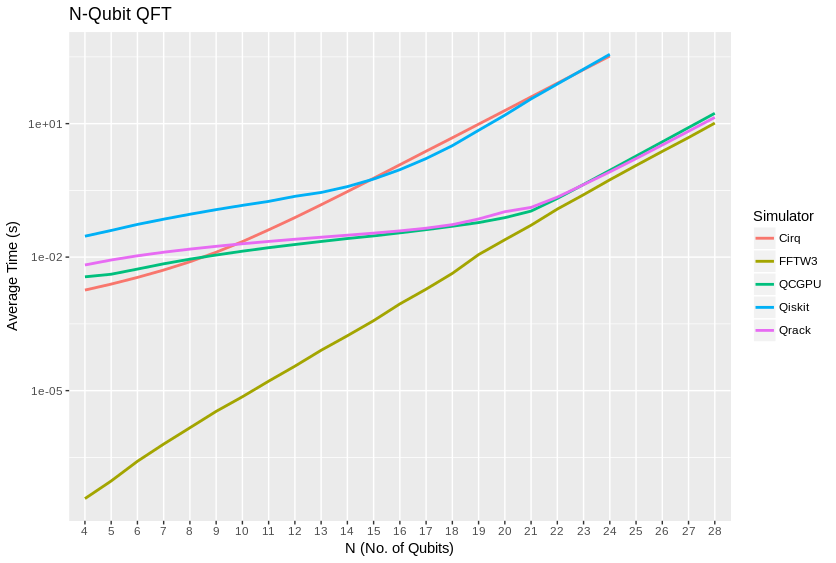
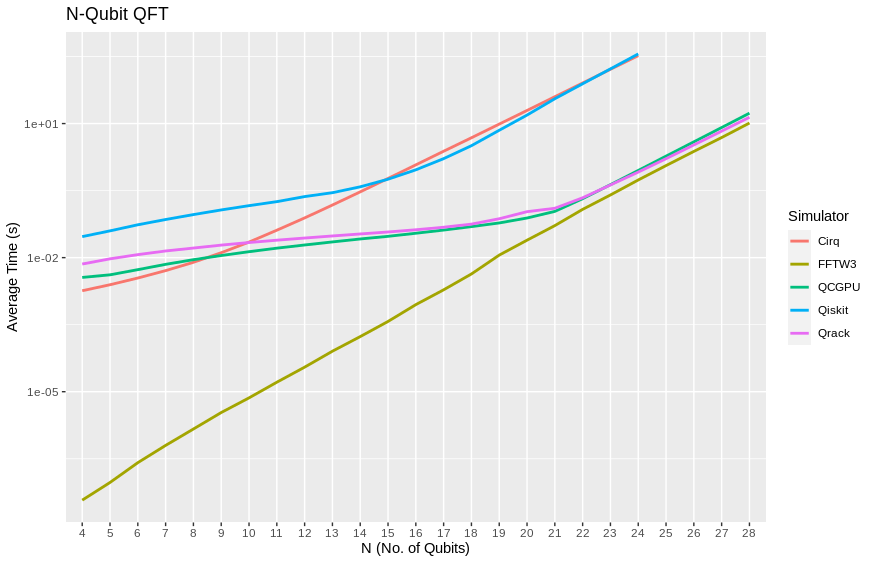
Updating performance

diff --git a/docs/performance.rst b/docs/performance.rst
@@ -74,11 +74,11 @@ Disclaimers
 Method
 ******
 
-This performance document is meant to be a simple, to-the-point, and preliminary digest of these results. We plan to submit a formal academic report for peer review of these results, in full detail, in February of 2020. These were prepared with the generous financial support of the Unitary Fund. However, we offer that our benchmark code is public, largely self-explanatory, and easily reproducible, while we prepare that report. Hence, we release these partial preliminary results now.
+This performance document is meant to be a simple, to-the-point, and preliminary digest of these results. We plan to submit a formal academic report for peer review of these results, in full detail, as soon as we collect sufficient feedback on the preprint. (The originally planned date of submission was in February of 2020, but it seems that COVID-19 has hindered our ability to seek preliminary feedback.) These results were prepared with the generous financial support of the Unitary Fund. However, we offer that our benchmark code is public, largely self-explanatory, and easily reproducible, while we prepare that report. Hence, we release these partial preliminary results now.
 
 100 timed trials of single and parallel gates were run for each qubit count between 4 and 28 qubits. Three tests were performed: the quantum Fourier transform, ("QFT"), random circuits constructed from a universal gate set, and an idealized approximation of Google's Sycamore chip benchmark, as per [Sycamore]_. The benchmarking code is available at `https://github.com/vm6502q/simulator-benchmarks <https://github.com/vm6502q/simulator-benchmarks>`_.
 
-CPU and GPU benchmarks were run on two respective systems that could represent realistic use cases for each engine type. Among AWS virtual machine instances, we sought to find those systems with the lowest possible cost to run the benchmarks for their respective execution times, at or below for the 28 qubit mark. An AWS g3s.xlarge running Ubuntu Server 18.04LTS was selected for GPU benchmarks. An AWS c5.4xlarge running Ubuntu Server 18.04LTS was selected for CPU benchmarks, including FFTW3 for comparison on the QFT test. Benchmarks were collected from December 27, 2019 through January 24, 2020. These results were combined with single gate, N-width gate and Grover's search benchmarks for Qrack, collected overnight from December 19th, 2018 into the morning of December 20th. (The potential difference since December 2018 in these particular Qrack tests reused from then should be insignificant. We took care to try to report fair tests, within cost limitations, but please let us know if you find anything that appears misrepresentative.)
+CPU and GPU benchmarks were run on two respective systems that could represent realistic use cases for each engine type. Among AWS virtual machine instances, we sought to find those systems with the lowest possible cost to run the benchmarks for their respective execution times, at or below for the 28 qubit mark. An AWS g3s.xlarge running Ubuntu Server 18.04LTS was selected for GPU benchmarks. An AWS c5.4xlarge running Ubuntu Server 18.04LTS was selected for CPU benchmarks, including FFTW3 for comparison on the QFT test. Benchmarks were collected from December 27, 2019 through January 24, 2020. Given delays in soliciting peer opinion, while development of Qrack continued, the Qrack benchmarks were updated on April 5, 2020. These results were combined with single gate, N-width gate and Grover's search benchmarks for Qrack, collected overnight from December 19th, 2018 into the morning of December 20th. (The potential difference since December 2018 in these particular Qrack tests reused from then should be insignificant. We took care to try to report fair tests, within cost limitations, but please let us know if you find anything that appears misrepresentative.)
 
 The average time of each set of 100 was recorded and graphed. Grover's search to invert a black box subroutine, or "oracle," was similarly implemented for trials between 5 and 20 qubits, for QEngineOCL with and without QUnit and QFusion layers. Grover's algorithm was iterated an optimal number of times, vs. qubit count, to maximize probability on a half cycle of the algorithm's period, being :math:`floor\left[\frac{\pi}{4asin^2\left(1/\sqrt{2^N}\right)}\right]` iterations for :math:`N` qubits.
 
@@ -121,31 +121,30 @@ The "quantum" (or "discrete") Fourier transform (QFT/DFT) is a realistic and imp
 
 .. image:: performance/qft.png
 
-Recall that QCGPU and Qrack are GPU-implementations run on AWS g3s.xlarge instances, whereas all other candidates are run on AWS c5.4xlarge instances. Under these considerations, by the 28 qubit level, Qrack out-performs all other candidates except FFTW3. (Recall, also, that Qrack uses a representatively "hard" initialization on this test, as described above, whereas permutation basis eigenstate inputs, for example, are much more quickly executed.) Though we are comparing CPU to GPU, CPU-based FFTW3 is clearly the best suited for low numbers of qubits, in general.
+.. image:: performance/qft_optimization.png
 
-Similarly, on random universal circuits, defined above and in the benchmark repository, Qrack and QCGPU are closely matched (for cost) on AWS systems.
+Recall that QCGPU and Qrack are GPU-implementations run on AWS g3s.xlarge instances, whereas all other candidates are run on AWS c5.4xlarge instances. Under these considerations, by the 28 qubit level, Qrack out-performs all other candidates except FFTW3. (Recall, also, that Qrack uses a representatively "hard" initialization on this test, as described above, whereas permutation basis eigenstate inputs, for example, are much more quickly executed.) Though we are comparing CPU to GPU, CPU-based FFTW3 is clearly the best suited for low numbers of qubits, in general. However, Qrack is the only candidate tested which exhibits even better special case performance on the QFT, as for random permutation basis eigenstate initialization, or initialization via permutation basis eigenstates with random "H" gates applied, before QFT.
 
-.. image:: performance/random_universal.png
+Similarly, on random universal circuits, defined above and in the benchmark repository, Qrack leads over all other candidates considered by the 21 qubit mark and up. GPU-based QCGPU leads on the test system for 20 qubits and below, and CPU-based Cirq leads for 8 qubits and fewer.
+
+.. image:: performance/random_circuit.png
 
 Qrack's QUnit makes a fundamental improvement on an idealization of the Sycamore circuit, which we strongly encourage the reader to analyze and reproduce with the provided public benchmark code.
 
 .. image:: performance/sycamore.png
 
-QUnit represents its state vector in terms of decomposed subsystems, when possible and efficient. On user and internal probability checks, QUnit will attempt to separate the representations of independent subsystems by Schmidt decomposition. Further, Qrack will avoid applying phase effects that make no difference to the expectation values of any Hermitian operators, (no difference to "physical observables,") when optimization can be achieved this way. For each bit whose representation is separated this way, we recover a factor of close to or exactly 1/2 the subsystem RAM and gate execution time. Under the domain constraints, QUnit outperforms all other simulators analyzed.
 
 Discussion
 **********
 
-Up to a consistent deviation at low qubit counts, speed and RAM usage for Schrödinger method "QEngine" types is well predicted by theoretical complexity considerations of the gates, up to about a factor of 2 on heap usage for duplication of the state vector, with additional 1/2 the size of state vector allocated by QEngineOCL for an auxiliary normalization buffer. For the additional overhead between Qrack's optimized QUnit and QCGPU in the comparative benchmarks, the difference might come down to Qrack's support for a more general API and set of compatible systems.
+Up to a consistent deviation at low qubit counts, speed and RAM usage for Schrödinger method "QEngine" types is well predicted by theoretical complexity considerations of the gates, up to about a factor of 2 on heap usage for duplication of the state vector, with additional 1/2 the size of state vector allocated by QEngineOCL for an auxiliary normalization buffer.
 
-Qrack is written for scalable work distribution in the OpenCL kernels. QEngineOCL will distribute work among an arbitrarily small number of processing elements and max work item size, smaller than state vector size. Max work item size is a device-specific hardware parameter limiting how many work items may be dispatched in an OpenCL kernel call. QEngineOCL can distribute large numbers of probability amplitude transformations to small numbers of work items, incurring additional looping overhead, whereas QCGPU is written to dispatch one work item to one processing element. QCGPU requires a large enough hardware max work item size to add higher numbers of qubits. Whereas QCGPU might not be, Qrack is theoretically compatible with OpenCL devices with smaller maximum work item counts, such as CPUs like the ARM7, on which Qrack has been regularly unit tested.
-
-Qrack gives the option to normalize its state vector while flooring noise-level amplitudes at on-the-fly opportunities, to optimize while correcting for float rounding error. QEngineOCL was designed to support access by separate QEngineOCL instances in different threads to shared OpenCL devices, as well as optional out-of-order OpenCL queue execution, when available. QEngineOCL can also dispatch a queue of gates completely asynchronously, without blocking the main execution thread. Runtime options and design features to support a broad range of platforms do add to Qrack's execution overhead, but these make Qrack the best all-around quantum computer simulator for personal and heterogeneous hardware.
+Qrack::QUnit succeeds as a novel and fundamentally improved quantum simulation algorithm, over the naive Schrödinger algorithm. Primarily, QUnit does this by representing its state vector in terms of decomposed subsystems, as well as buffering and commuting H gates and singly-controlled gates. On user and internal probability checks, QUnit will attempt to separate the representations of independent subsystems by Schmidt decomposition. Further, Qrack will avoid applying phase effects that make no difference to the expectation values of any Hermitian operators, (no difference to "physical observables"). For each bit whose representation is separated this way, we recover a factor of close to or exactly 1/2 the subsystem RAM and gate execution time.
 
 Further Work
 ************
 
-A formalized report of the above and additional benchmark results, in much greater detail and specificity, is planned to be submitted for publication in February, 2020, thanks to the generous support of the Unitary Fund.
+A formal report of the above and additional benchmark results, in much greater detail and specificity, is planned to be submitted for publication as soon as sufficient preliminary peer opinion can be collected on the preprint, in early to mid 2020, thanks to the generous support of the Unitary Fund.
 
 Qrack previously contained two experimental multiprocessor types, "QEngineOCLMulti" based on the algorithms developed in Intel's [QHiPSTER]_, and the simpler QUnitMulti type, which dispatches different separable subsystems to different processors. These failed to outperform the single processor QEngineOCL. However, as Qrack has added optional support as a simulator for ProjectQ, we have effectively gained access to the quantum network simulator "SimulaQron" by SoftwareQuTech. At least one Qrack user is experimenting with scaling deployments of containers loaded with Qrack, ProjectQ, and SimulaQron as an effective solution for multiprocessor and cluster operations, and the Qrack team is looking at this and related approaches for this purpose. An asynchronous quantum P2P model, for effective multiprocessor support, should hopefully reduce inter-device communication overhead bottlenecks.
 
@@ -156,7 +155,7 @@ We will maintain systematic comparisons to published benchmarks of quantum compu
 Conclusion
 **********
 
-Per [Pednault2017]_, and many other attendant and synergistic optimizations engineered specifically in Qrack's QUnit, explicitly separated subsystems of qubits in QUnit have a significant RAM and speed edge in many cases over the "Schrödinger algorithm" of most popular quantum computer simulators. Qrack gives very efficient performance on a single node past 32 qubits, up to the limit of maximal entanglement.
+Per [Pednault2017]_, and many other attendant and synergistic optimizations engineered specifically in Qrack's QUnit, explicitly separated subsystems of qubits in QUnit have a significant RAM and speed edge in many cases over the Schrödinger algorithm of most popular quantum computer simulators. Qrack gives very efficient performance on a single node past 32 qubits, up to the limit of maximal entanglement.
 
 Citations
 *********
